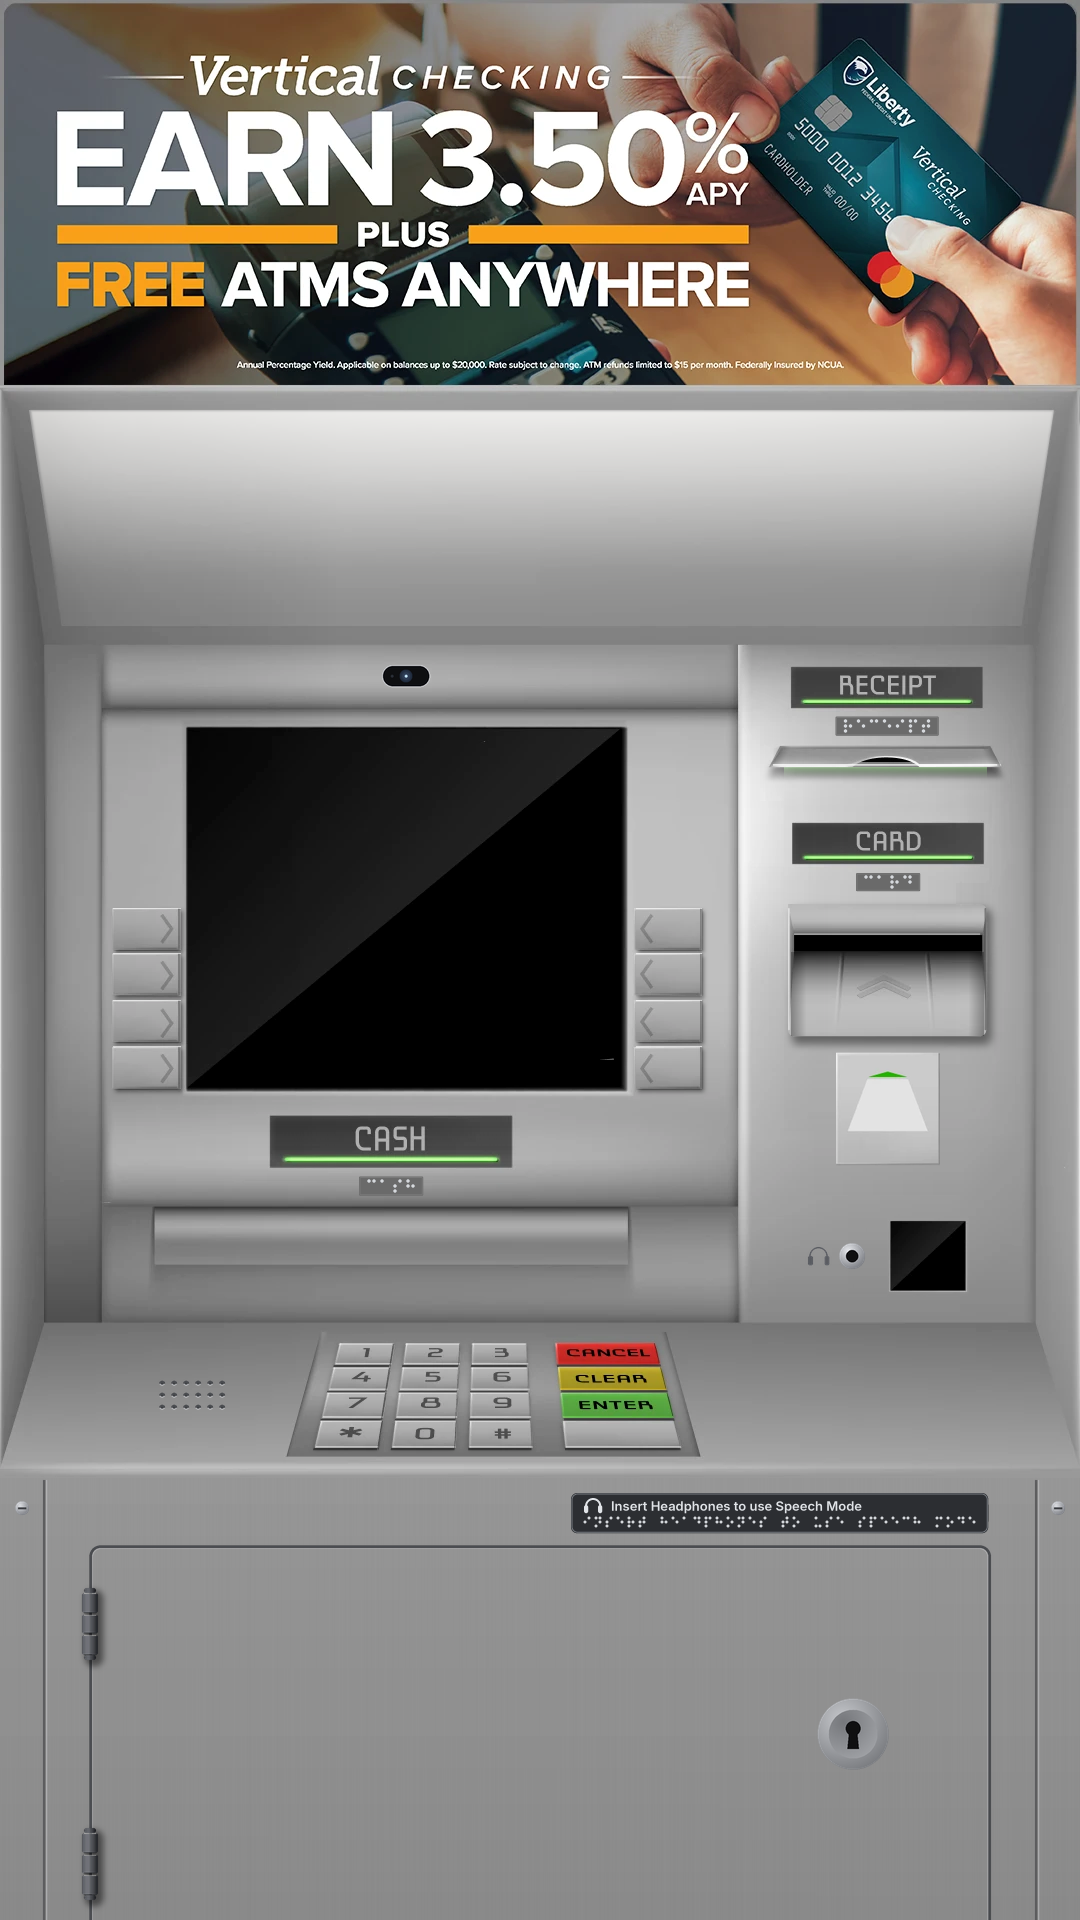
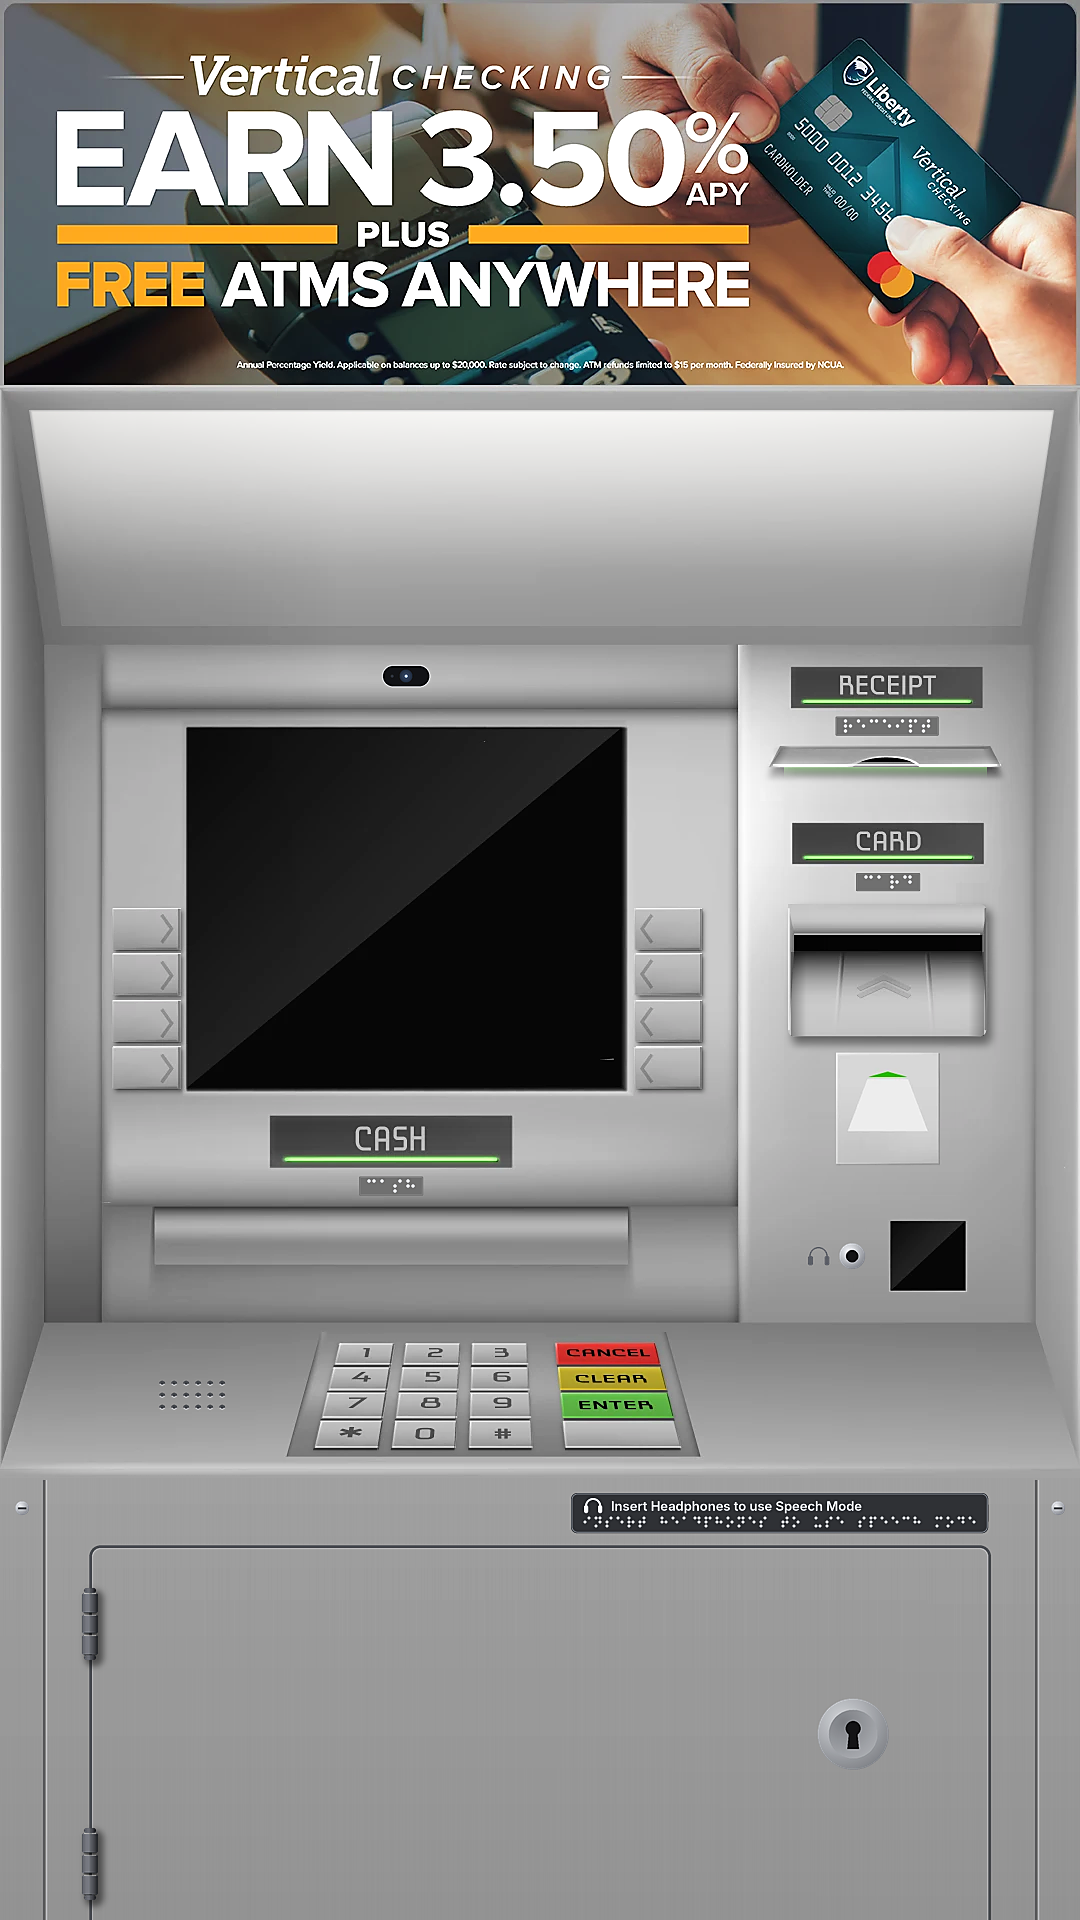
ATM artwork: finishing step for a brighter, punchier, sharper image
A little more brightness, mid-tone contrast, highlights, shadows and
vibrance, then an unsharp mask, over the whole image (GRADE in
options.py).

Claude-Session: https://claude.ai/code/session_01KPvVpTs9ZCdeZuPLiaJADF

diff --git a/ATM/artwork/options.py b/ATM/artwork/options.py
@@ -315,4 +315,24 @@ td.text(((P0 + 40) * Z, TY * Z), "Insert Headphones to use Speech Mode", font=fl
 tm = np.array(txt.resize((W, H), Image.BOX)) / 255
 a[..., :3] = a[..., :3] * (1 - tm[..., None]) + np.array((225, 228, 232), float) * tm[..., None]
 draw_braille(a, SENT, P0 + 14 + bw / 2, PT + 29, **sm)
+# ---------- finishing: a touch more brightness, contrast, highlights, shadows and colour, then sharpen ----------
+GRADE = dict(brightness=0.03, contrast=0.10, highlights=0.06, shadows=0.05, vibrance=0.15, sharpen=(1.2, 70, 2))
+
+
+def finish(a, brightness, contrast, highlights, shadows, vibrance, sharpen):
+    x = a[..., :3] / 255
+    x = x + brightness
+    x = x + contrast * (x - 0.5) * (1 - np.abs(2 * x - 1))  # S-curve: more contrast in the mid-tones
+    lum = x.mean(-1, keepdims=True)
+    x = x + highlights * np.clip((lum - 0.6) / 0.4, 0, 1) * (1 - x)  # brighter highlights
+    x = x - shadows * np.clip((0.35 - lum) / 0.35, 0, 1) * x  # deeper shadows
+    m = x.mean(-1, keepdims=True); sat = x.max(-1, keepdims=True) - x.min(-1, keepdims=True)
+    x = m + (x - m) * (1 + vibrance * (1 - np.clip(sat * 2, 0, 1)))  # vibrance: muted colours gain the most
+    a[..., :3] = np.clip(x, 0, 1) * 255
+    radius, percent, threshold = sharpen
+    rgb = Image.fromarray(a[..., :3].astype(np.uint8)).filter(ImageFilter.UnsharpMask(radius, percent, threshold))
+    a[..., :3] = np.array(rgb).astype(float)
+
+
+finish(a, **GRADE)
 save(a, "ATM-combo-L1-S2-B2")

diff --git a/ATM/NOTES.md b/ATM/NOTES.md
@@ -366,6 +366,7 @@ label, so these were updated to match (measured on the image):
 | Green on the slots | `options.py`: `SLOT_GREEN` (the **Slot Light** colour, `#7cf25e`) |
 | Braille words, size, plates | `options.py`: `DOTS` (letters), `SPOTS_FINAL` (where), `flat`/`sm` (dot size and spacing), `plate(...)` colours |
 | Speech Mode label | `options.py`: `SENT`, `PW2, PH2, P0, PT` |
+| Brightness, contrast, highlights, shadows, colour, sharpness | `options.py`: `GRADE` (the last step, over the whole image) |
 | Spacing of the right panel and cash | `options.py`: `RECEIPT_DROP` (16), `CARD_LABEL_RISE` (12), `CARD_DROP` (16, the whole card group, centred between its neighbours), `INSERT_DROP` (8, the card slot alone), `PIC_SCALE` (0.78) and the picture's `py0` (follows the slot), `CASH_LABEL_RISE` (10) |
 
 ### Decisions log (the image)
@@ -491,6 +492,12 @@ In the order they were made with the designer:
   now **satin metal close to the body's grey** (ring `(198, 200, 204)`
   to `(112, 114, 118)`, face `(118, 120, 124)` to `(160, 162, 166)`).
   It no longer matches the chrome headphone jack, by choice.
+- **Finishing (more vibrant, sharper)**: a last step over the whole
+  image: +3% brightness, a gentle S-curve for contrast, brighter
+  highlights and deeper shadows, a vibrance boost that lifts muted
+  colours most, then an unsharp mask (radius 1.2, 70%, threshold 2).
+  `GRADE` in `options.py`; set every value to 0 (and `sharpen` to
+  `(1, 0, 0)`) to see the image without it.
 
 ## How it was made
 
